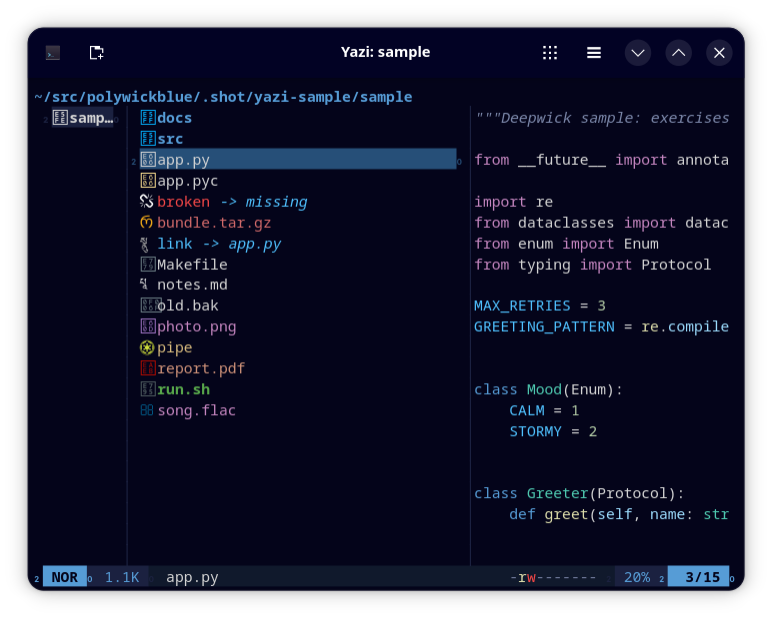
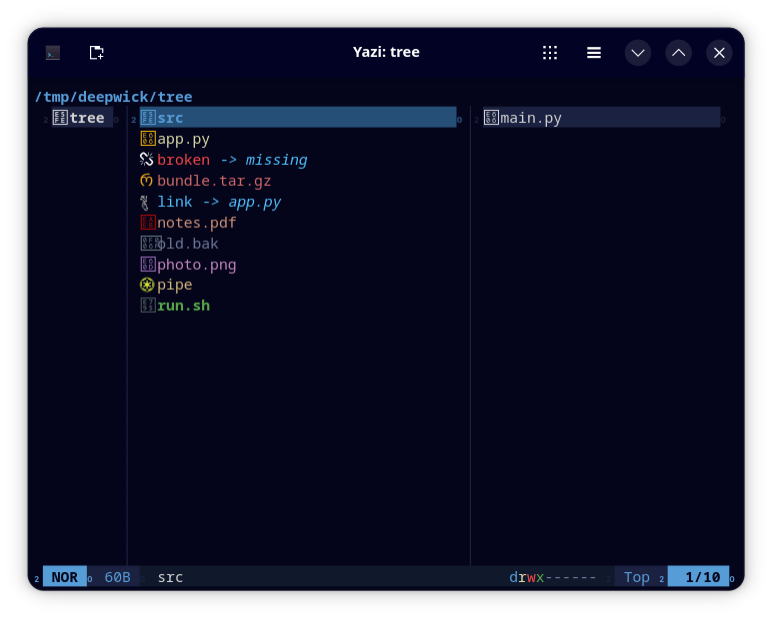
Color source and temporary files; sync the bat theme

diff --git a/tests/test_flavor.py b/tests/test_flavor.py
@@ -56,7 +56,7 @@ def assert_role(text, name, role):
     assert style["bold"] == ("bold" in expected.style), (name, role, style)
 
 
-YAZI_ROLES = {name: role for name, role in TREE_ROLES.items() if role not in ("source", "temp")}
+YAZI_ROLES = dict(TREE_ROLES)
 
 
 def name_style(text, name):

diff --git a/README.md b/README.md
@@ -37,7 +37,8 @@ dark = "deepwick"
   entirely (it does not merge).
 - File names: directories Blue bold, executables Green bold, symlinks Cyan,
   broken links Red, FIFOs/sockets/devices Gold, archives Rose, media Magenta,
-  documents Orange.
+  documents Orange, source and build files Yellow, temporary, backup and
+  compiled files Muted.
 
 Tested with Yazi 26.5.6.
 
